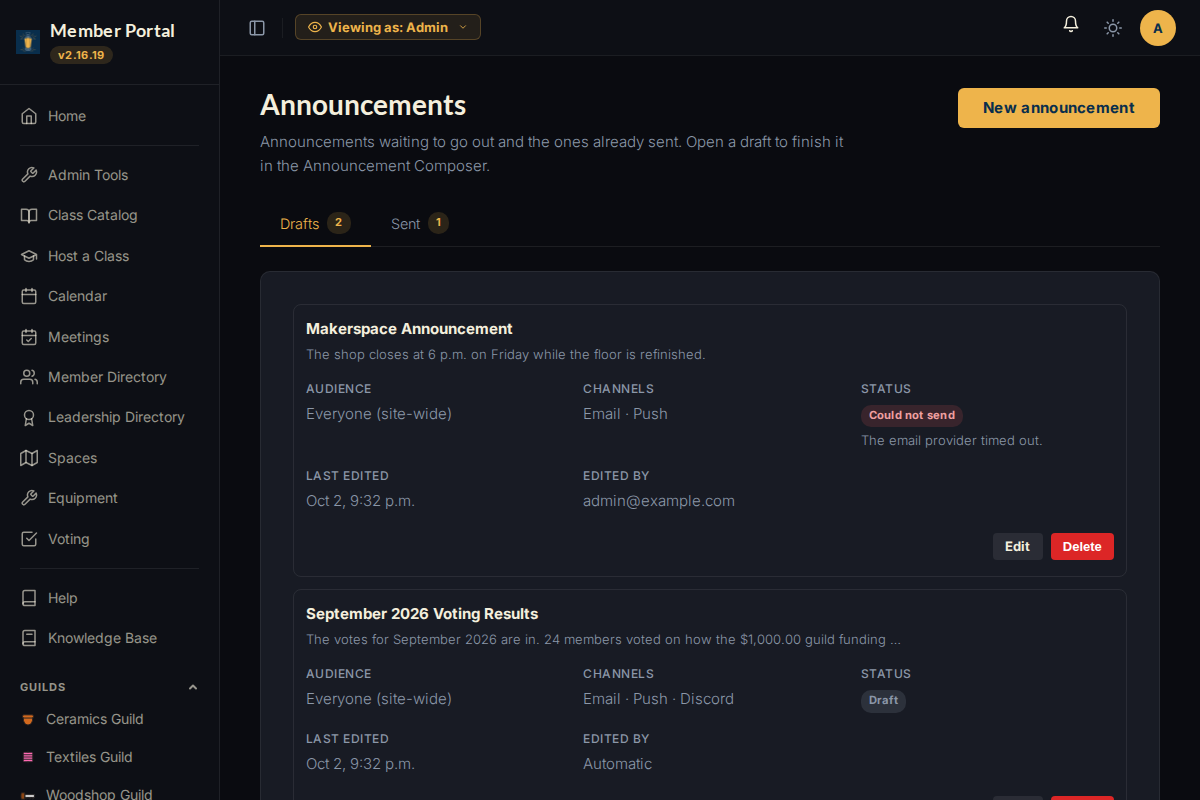
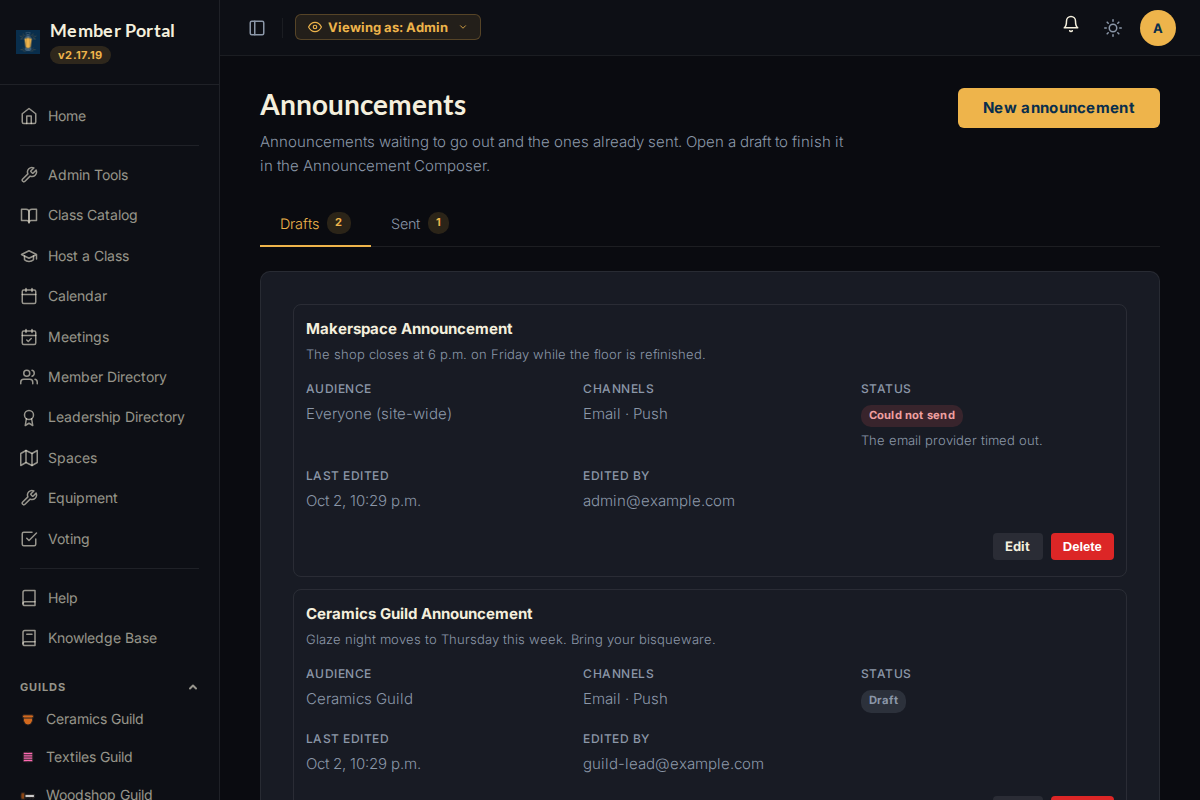
A deleted results draft stays deleted, and a sent draft's old link opens its record
Pressing Draft announcement now marks the month's draft as made, so the job never remakes one an admin deleted. Automatic names only a results draft; any other author left blank reads Unknown. Reloading a draft that has since been sent opens its Sent view instead of a missing page, and an instructor who deletes their last draft lands on Home. The changelog and help say reach is counted from now on.

Claude-Session: https://claude.ai/code/session_01G9PHHCFFwBZzNerP8Qpjwh

diff --git a/tests/hub/announcement_compose_spec.py b/tests/hub/announcement_compose_spec.py
@@ -208,15 +208,32 @@ def describe_hub_compose_page():
         theirs = AnnouncementDraftFactory(audience=AnnouncementDraft.Audience.GUILD, guild=other)
         assert client.get(reverse("hub_compose_resume", args=[theirs.pk])).status_code == 404
 
-    def it_404s_resuming_a_queued_draft(client: Client):
+    def it_sends_a_reload_of_a_queued_drafts_resume_url_to_its_record(client: Client):
         admin = _login_admin(client)
         draft = AnnouncementDraftFactory(author=admin, queued=True)
-        assert client.get(reverse("hub_compose_resume", args=[draft.pk])).status_code == 404
+        response = client.get(reverse("hub_compose_resume", args=[draft.pk]))
+        assert response.status_code == 302
+        assert response.url == reverse("hub_announcement_sent", args=[draft.pk])
 
-    def it_404s_resuming_an_already_sent_draft(client: Client):
+    def it_sends_a_reload_of_an_already_sent_drafts_resume_url_to_its_record(client: Client):
+        # Replaces it_404s_resuming_an_already_sent_draft: Save draft writes the resume URL into
+        # the address bar, so a reload after the send must land on the record, not a 404.
         admin = _login_admin(client)
-        draft = AnnouncementDraft.objects.create(author=admin, title="Gone", sent_at=timezone.now())
-        assert client.get(reverse("hub_compose_resume", args=[draft.pk])).status_code == 404
+        draft = AnnouncementDraftFactory(author=admin, sent=True)
+        response = client.get(reverse("hub_compose_resume", args=[draft.pk]))
+        assert response.status_code == 302
+        assert response.url == reverse("hub_announcement_sent", args=[draft.pk])
+        assert client.get(response.url).status_code == 200
+
+    def it_404s_a_lead_reloading_another_guilds_sent_announcement(client: Client):
+        own, other = GuildFactory(), GuildFactory()
+        _login_lead(client, own)
+        theirs = AnnouncementDraftFactory(audience=AnnouncementDraft.Audience.GUILD, guild=other, sent=True)
+        assert client.get(reverse("hub_compose_resume", args=[theirs.pk])).status_code == 404
+
+    def it_404s_resuming_a_missing_draft(client: Client):
+        _login_admin(client)
+        assert client.get(reverse("hub_compose_resume", args=[999999])).status_code == 404
 
 
 def describe_hub_compose_save_draft():
@@ -497,6 +514,31 @@ def describe_hub_compose_delete_draft():
         draft = AnnouncementDraftFactory(author=admin, **{trait: True})
         assert client.post(reverse("hub_compose_delete_draft", args=[draft.pk])).status_code == 404
         assert AnnouncementDraft.objects.filter(pk=draft.pk).exists()
+
+    def it_sends_a_lock_only_instructor_home_after_their_last_draft_goes(client: Client):
+        """They could open the page only because of this draft, so the page would refuse them."""
+        user, _member, offering = _instructor(
+            client, username="lastdraft", slug=False, status=ClassOffering.Status.DRAFT
+        )
+        draft = AnnouncementDraftFactory(
+            author=user, audience=AnnouncementDraft.Audience.CLASS, class_offering=offering
+        )
+        response = client.post(reverse("hub_compose_delete_draft", args=[draft.pk]))
+        assert response.status_code == 302
+        assert response.url == reverse("hub_home")
+        assert [m.message for m in get_messages(response.wsgi_request)] == ["Draft deleted."]
+        assert not AnnouncementDraft.objects.filter(pk=draft.pk).exists()
+
+    def it_keeps_a_lock_only_instructor_on_the_page_while_they_have_another_draft(client: Client):
+        user, _member, offering = _instructor(
+            client, username="twodrafts", slug=False, status=ClassOffering.Status.DRAFT
+        )
+        first, _second = (
+            AnnouncementDraftFactory(author=user, audience=AnnouncementDraft.Audience.CLASS, class_offering=offering)
+            for _ in range(2)
+        )
+        response = client.post(reverse("hub_compose_delete_draft", args=[first.pk]))
+        assert response.url == reverse("hub_announcements")
 
     def it_answers_a_get_with_405(client: Client):
         admin = _login_admin(client)

diff --git a/membership/models.py b/membership/models.py
@@ -5331,14 +5331,14 @@ class AnnouncementDraft(models.Model):
     def author_label(self) -> str:
         """Who last saved it (a draft) or sent it, as the Announcements page names them.
 
-        The name ``_sender_line`` uses. A blank author on a row still in the composer's hands is the
-        results draft the snapshot job made ("Automatic", the word the Voting history uses for a
-        snapshot the system took); on a row that went out or is going out, the sender's account was
-        deleted since ("Unknown").
+        The name ``_sender_line`` uses. A blank author on a results draft still in the composer's
+        hands is the one the snapshot job made ("Automatic", the word the Voting history uses for a
+        snapshot the system took). Any other blank author is an account deleted since ("Unknown"):
+        a plain draft's last saver, or the sender of a row that went out or is going out.
         """
         if self.author is not None:
             return self.author.get_full_name() or self.author.get_username()
-        return "Automatic" if self.is_resumable else "Unknown"
+        return "Automatic" if self.is_resumable and self.funding_snapshot_id is not None else "Unknown"
 
     @property
     def message_excerpt(self) -> str:
@@ -9397,8 +9397,8 @@ class FundingSnapshot(models.Model):
         null=True,
         blank=True,
         help_text=(
-            "When this snapshot's results draft was made automatically, or found already open. "
-            "Set once, so a draft an admin deletes is never made again on its own."
+            "When this snapshot's results draft was first made or opened, by the snapshot job or an "
+            "admin's Draft announcement. Set once, so a draft an admin deletes is never made again on its own."
         ),
     )
 
@@ -9786,6 +9786,10 @@ class FundingSnapshot(models.Model):
         its author. The snapshot row is locked first, the same lock :meth:`make_results_draft`
         takes, so a click and the job in the same instant make one draft, not two.
 
+        A click also sets ``results_draft_created_at`` when it is still blank (with ``update``, so
+        nothing is pushed to Airtable), so the job never makes the draft again on its own after
+        an admin opened one and deleted it: the delete modal and the help guide promise that.
+
         Raises:
             ResultsAlreadySentError: If this snapshot's results already went out, or a results
                 announcement for it is queued (a stale tab must not open a second, unsendable draft).
@@ -9799,6 +9803,9 @@ class FundingSnapshot(models.Model):
                 raise ResultsAlreadySentError("These results are already sending.")
             if not self.allocation_summary():
                 raise NoResultsToAnnounceError(f"'{self.cycle_label}' has no results to announce.")
+            FundingSnapshot.objects.filter(pk=self.pk, results_draft_created_at__isnull=True).update(
+                results_draft_created_at=timezone.now()
+            )
             existing = self._open_results_draft()
             if existing is not None:
                 return existing

diff --git a/hub/views.py b/hub/views.py
@@ -4424,7 +4424,8 @@ def hub_compose(request: HttpRequest, draft_pk: int | None = None) -> HttpRespon
     """The compose wizard page. GET renders the Compose and Preview & send phases.
 
     A ``draft_pk`` resumes a draft this request may handle (:func:`_handled_draft`: shared by
-    everyone who may address its audience; a sent, queued, foreign-audience or missing pk 404s);
+    everyone who may address its audience). A sent or queued row the viewer may see redirects to
+    its record (:func:`announcement_sent`); a foreign-audience or missing pk 404s.
     ``?audience=guild:<pk>`` pre-scopes a fresh compose, and ``?recipients=<token>`` (repeatable,
     with ``?include_waitlist=1``) narrows the checklist to a roster hand-off — see
     :func:`_compose_preselection`. A member who can compose nothing (not an admin, leads no
@@ -4444,6 +4445,12 @@ def hub_compose(request: HttpRequest, draft_pk: int | None = None) -> HttpRespon
         # class, no general compose rights) could save a draft yet never resume it.
         draft = _handled_draft(request, draft_pk)
         if draft is None:
+            # A row this viewer may see that _handled_draft refused is sent or queued: Save draft
+            # wrote its resume URL into the address bar, so a reload after the send lands on its
+            # record rather than a 404. A row the viewer may not see stays a 404.
+            seen = _announcement_rows(request, member, within=AnnouncementDraft.objects.filter(pk=draft_pk)).first()
+            if seen is not None:
+                return redirect("hub_announcement_sent", pk=seen.pk)
             raise Http404("No such draft.")
         initial = _draft_initial(draft)
         requested = initial["audience"]
@@ -4824,12 +4831,18 @@ def hub_compose_delete_draft(request: HttpRequest, draft_pk: int) -> HttpRespons
     draft deletes only that row: a results draft's snapshot keeps its numbers and its "made"
     stamp, so the job does not make it again. The toast crosses the boosted redirect through
     ``ToastFlashMiddleware``.
+
+    Someone who could open the page only because of this draft (an instructor who reaches the
+    composer through a class page's locked link) can no longer open it once it is gone, so they
+    land on their home page with just the toast, not on the page's refusal.
     """
     draft = _handled_draft(request, draft_pk)
     if draft is None:
         raise Http404("No such draft.")
     draft.delete()
     messages.success(request, "Draft deleted.")
+    if not _can_open_announcements(request, _get_member(request)):
+        return redirect("hub_home")
     return redirect("hub_announcements")
 
 

diff --git a/tests/membership/results_announcement_spec.py b/tests/membership/results_announcement_spec.py
@@ -210,12 +210,29 @@ def describe_draft_results_announcement():
         with pytest.raises(ResultsAlreadySentError, match="These results were already sent."):
             snapshot.draft_results_announcement(_author())
         assert not AnnouncementDraft.objects.exists()
+        assert FundingSnapshot.objects.get(pk=snapshot.pk).results_draft_created_at is None
+
+    def it_stamps_the_snapshot_so_the_job_never_makes_it_again():
+        snapshot = _snapshot()
+        with patch("airtable_sync.service.sync_snapshot_to_airtable") as sync:
+            snapshot.draft_results_announcement(_author())
+        sync.assert_not_called()
+        assert FundingSnapshot.objects.get(pk=snapshot.pk).results_draft_created_at is not None
+
+    def it_keeps_the_first_stamp_on_a_later_click():
+        snapshot = _snapshot()
+        snapshot.draft_results_announcement(_author("felix"))
+        first = FundingSnapshot.objects.get(pk=snapshot.pk).results_draft_created_at
+        FundingSnapshot.objects.filter(pk=snapshot.pk).update(results_draft_created_at=first - timedelta(days=1))
+        snapshot.draft_results_announcement(_author("robin"))
+        assert FundingSnapshot.objects.get(pk=snapshot.pk).results_draft_created_at == first - timedelta(days=1)
 
     def it_refuses_a_snapshot_with_no_per_guild_results():
         snapshot = FundingSnapshotFactory(cycle_label="Legacy", results={})
         with pytest.raises(NoResultsToAnnounceError, match="'Legacy' has no results to announce."):
             snapshot.draft_results_announcement(_author())
         assert not AnnouncementDraft.objects.exists()
+        assert FundingSnapshot.objects.get(pk=snapshot.pk).results_draft_created_at is None
 
 
 def describe_results_announcement_body():
@@ -934,6 +951,13 @@ def describe_make_results_draft():
         snapshot.make_results_draft()
         assert snapshot.make_results_draft() is None
         assert AnnouncementDraft.objects.count() == 1
+
+    def it_never_makes_a_draft_an_admin_opened_and_then_deleted():
+        """The click, delete, tick sequence: the click stamps, so the tick after the delete makes nothing."""
+        snapshot = _snapshot()
+        snapshot.draft_results_announcement(_author()).delete()
+        assert FundingSnapshot.make_newest_results_draft() is None
+        assert not AnnouncementDraft.objects.exists()
 
     def it_never_makes_it_again_after_it_is_deleted():
         snapshot = _snapshot()

diff --git a/tests/membership/announcement_draft_spec.py b/tests/membership/announcement_draft_spec.py
@@ -31,6 +31,7 @@ from membership.models import (
 )
 from tests.membership.factories import (
     AnnouncementDraftFactory,
+    FundingSnapshotFactory,
     GuildFactory,
     GuildMembershipFactory,
     MemberFactory,
@@ -181,11 +182,30 @@ def describe_AnnouncementDraft():
             assert AnnouncementDraftFactory(author=named).author_label == "Ana Ruiz"
             assert AnnouncementDraftFactory(author=unnamed).author_label == "jo"
 
-        def it_reads_automatic_for_a_blank_author_on_a_draft_and_unknown_once_it_went_out():
-            assert AnnouncementDraftFactory(author=None).author_label == "Automatic"
-            assert AnnouncementDraftFactory(author=None, given_up=True).author_label == "Automatic"
+        def it_reads_automatic_for_a_results_draft_with_a_blank_author():
+            snapshot = FundingSnapshotFactory()
+            assert AnnouncementDraftFactory(author=None, funding_snapshot=snapshot).author_label == "Automatic"
+            assert (
+                AnnouncementDraftFactory(author=None, funding_snapshot=snapshot, given_up=True).author_label
+                == "Automatic"
+            )
+
+        def it_reads_unknown_for_a_blank_author_anywhere_else():
+            snapshot = FundingSnapshotFactory()
+            # A plain draft whose last saver's account was deleted, and rows that went or are going out.
+            assert AnnouncementDraftFactory(author=None).author_label == "Unknown"
             assert AnnouncementDraftFactory(author=None, sent=True).author_label == "Unknown"
-            assert AnnouncementDraftFactory(author=None, queued=True).author_label == "Unknown"
+            assert (
+                AnnouncementDraftFactory(author=None, funding_snapshot=snapshot, queued=True).author_label == "Unknown"
+            )
+            assert AnnouncementDraftFactory(author=None, funding_snapshot=snapshot, sent=True).author_label == "Unknown"
+
+        def it_reads_unknown_for_a_plain_draft_whose_author_was_deleted():
+            author = _author("leaver")
+            row = AnnouncementDraftFactory(author=author)
+            author.delete()
+            row.refresh_from_db()
+            assert row.author_label == "Unknown"
 
         def it_keeps_a_sent_row_when_its_author_is_deleted():
             author = _author("gone")

diff --git a/tests/e2e/help_screenshots_spec.py b/tests/e2e/help_screenshots_spec.py
@@ -266,22 +266,17 @@ def _seed_help_extras(personas: dict[str, Member]) -> None:
 def _seed_announcements(personas: dict[str, Member], ceramics: Guild) -> None:
     """The Announcements page shot: two drafts and one sent announcement, so no tab is captured empty.
 
-    The "Automatic" row is an author-less draft carrying the results title rather than a real
-    FundingSnapshot, because a pending snapshot would add the results banner to the Voting
-    overview shots captured from this same database.
+    No results draft: an "Automatic" row needs a real FundingSnapshot, and a pending snapshot
+    would add the results banner to the Voting overview shots captured from this same database.
     """
-    from membership.models import AnnouncementDraft, GuildAnnouncement
+    from membership.models import AnnouncementDraft
     from tests.membership.factories import AnnouncementDraftFactory
 
     AnnouncementDraftFactory(
-        author=None,
-        title="September 2026 Voting Results",
-        body=(
-            "<p>The votes for September 2026 are in. 24 members voted on how the $1,000.00 guild "
-            "funding pool is split. Thank you to everyone who voted.</p>"
-        ),
-        discord_channel=GuildAnnouncement.DiscordChannel.GENERAL,
-        mention=AnnouncementDraft.Mention.EVERYONE,
+        author=personas["guild_lead"].user,
+        audience=AnnouncementDraft.Audience.GUILD,
+        guild=ceramics,
+        body="<p>Glaze night moves to Thursday this week. Bring your bisqueware.</p>",
     )
     AnnouncementDraftFactory(
         author=personas["admin"].user,

diff --git a/membership/help_content.py b/membership/help_content.py
@@ -1650,7 +1650,7 @@ Ways in: **Admin Tools → Announcements** opens the Announcements page, where *
 ![The Announcements page: drafts waiting to go out, and the Sent tab beside them.](/static/help/announcement-composer/03-announcements-page.png)
 
 - **Drafts** lists announcements that have not gone out yet. Press **Save draft** in the composer to keep one here. Use **Edit** to pick it up again, or **Delete** to throw it away.
-- **Sent** lists what already went out: when, who sent it, and how many people it reached. **View** shows what went out on each channel.
+- **Sent** lists what already went out: when, who sent it, and how many people it reached. **View** shows what went out on each channel. People reached are counted for announcements sent since this page arrived; older ones show **Not recorded**.
 
 Drafts are shared. Admins see every draft. Guild leads and staff see the drafts and sent announcements for the guilds they help run, and instructors see the ones for their classes. Whoever saved a draft last shows as its editor. Whoever sends it is the sender, and their name is on the email's From line when **Show who it's from** is on.
 

diff --git a/tests/hub/announcements_overview_spec.py b/tests/hub/announcements_overview_spec.py
@@ -292,9 +292,11 @@ def describe_the_columns():
         _login_admin(client)
         named = User.objects.create_user(username="ana", first_name="Factory", last_name="Ruiz")
         by_ana = AnnouncementDraftFactory(author=named)
-        automatic = AnnouncementDraftFactory(author=None)
+        automatic = AnnouncementDraftFactory(author=None, funding_snapshot=FundingSnapshotFactory())
+        left = AnnouncementDraftFactory(author=None)
         orphaned = AnnouncementDraftFactory(author=None, sent=True)
         drafts = _page(client)
+        assert '<td data-label="Edited by" class="pl-announcements-table__who">Unknown</td>' in _row(drafts, left.pk)
         assert '<td data-label="Edited by" class="pl-announcements-table__who">Factory Ruiz</td>' in _row(
             drafts, by_ana.pk
         )

diff --git a/tests/core/management/take_cycle_snapshot_spec.py b/tests/core/management/take_cycle_snapshot_spec.py
@@ -152,6 +152,17 @@ def describe_the_results_draft_phase():
         assert AnnouncementDraft.objects.get().funding_snapshot == snapshot
         assert not FundingSnapshot.objects.filter(is_auto=True).exists()
 
+    def it_makes_nothing_after_an_admin_opened_the_draft_and_deleted_it(monkeypatch):
+        """Click, delete, tick: a draft thrown away never comes back on its own."""
+        _freeze(monkeypatch, _july())
+        snapshot = _manual_snapshot()
+        admin = _admin("admin@x.com")
+        snapshot.draft_results_announcement(admin).delete()
+
+        call_command("take_cycle_snapshot")
+
+        assert not AnnouncementDraft.objects.exists()
+
     def it_makes_it_once_however_many_ticks_run(monkeypatch):
         _freeze(monkeypatch, _july())
         _manual_snapshot()

diff --git a/tests/hub/voting_results_announcement_spec.py b/tests/hub/voting_results_announcement_spec.py
@@ -384,7 +384,8 @@ def describe_sending_from_the_composer():
     def it_refuses_to_resume_or_resend_a_queued_draft(admin_client):
         draft = _snapshot().draft_results_announcement(_admin_user())
         draft.queue_send()
-        assert admin_client.get(reverse("hub_compose_resume", args=[draft.pk])).status_code == 404
+        resumed = admin_client.get(reverse("hub_compose_resume", args=[draft.pk]))
+        assert resumed.url == reverse("hub_announcement_sent", args=[draft.pk])
         sent = admin_client.post(reverse("hub_compose_send"), _compose_post(draft))
         assert sent.url == reverse("hub_announcements")
         assert _messages(sent) == ["This draft can no longer be edited. It may have been sent or deleted."]

diff --git a/membership/migrations/0193_announcements_overview.py b/membership/migrations/0193_announcements_overview.py
@@ -28,7 +28,7 @@ class Migration(migrations.Migration):
             name="results_draft_created_at",
             field=models.DateTimeField(
                 blank=True,
-                help_text="When this snapshot's results draft was made automatically, or found already open. Set once, so a draft an admin deletes is never made again on its own.",
+                help_text="When this snapshot's results draft was first made or opened, by the snapshot job or an admin's Draft announcement. Set once, so a draft an admin deletes is never made again on its own.",
                 null=True,
             ),
         ),
